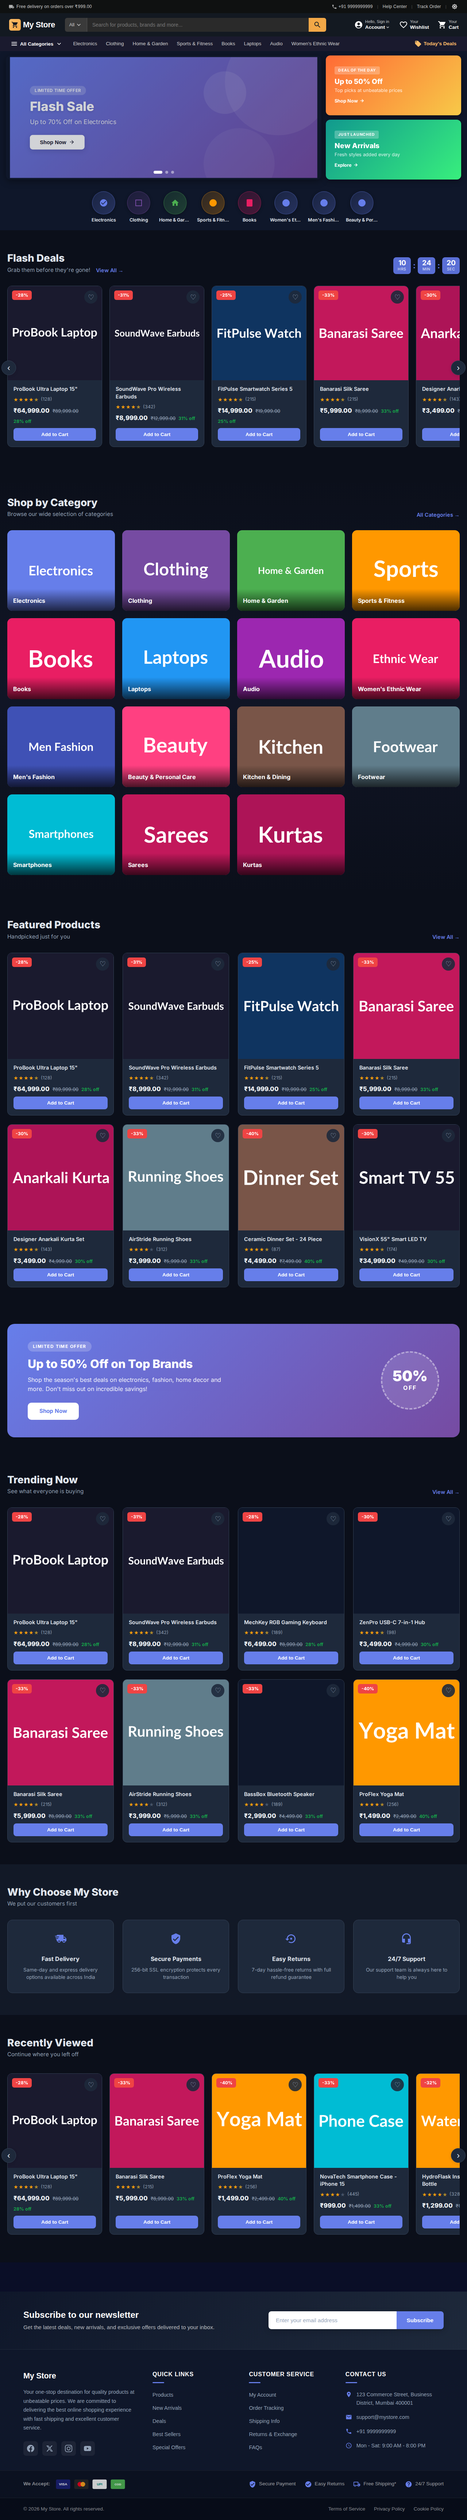
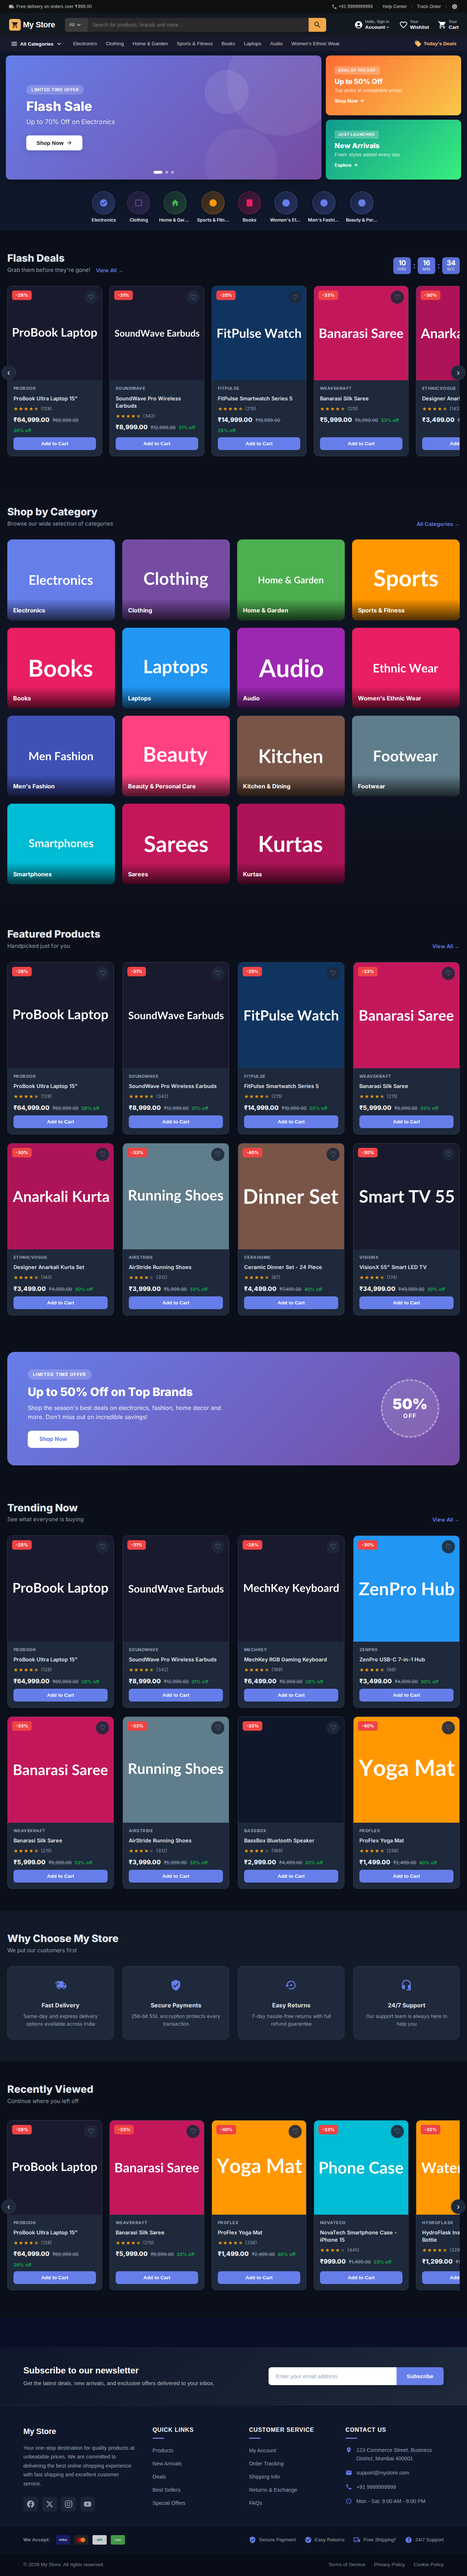
Home product cards: show brand (matches checklist + FeaturedProducts)
Home's inline product card omitted the brand line that the spec lists and
that the sibling FeaturedProducts card already renders. Add a muted uppercase
brand above the name (light/dark) and refresh the screenshots.

diff --git a/src/pages/Home/Home.js b/src/pages/Home/Home.js
@@ -135,6 +135,9 @@ const ProductCard = ({ product, onAddToCart, onToggleWishlist, isWishlisted }) =
 
       {/* Info */}
       <div className={styles.productInfo}>
+        {product.brand && (
+          <p className={styles.productBrand}>{product.brand}</p>
+        )}
         <h3 className={styles.productName}>{truncateText(name, 48)}</h3>
 
         <StarRating

diff --git a/src/pages/Home/Home.module.css b/src/pages/Home/Home.module.css
@@ -356,6 +356,19 @@
   flex: 1;
 }
 
+.productBrand {
+  font-size: 0.72rem;
+  font-weight: 700;
+  text-transform: uppercase;
+  letter-spacing: 0.04em;
+  color: #64748b;
+  margin: 0;
+}
+
+.dark .productBrand {
+  color: #94a3b8;
+}
+
 .productName {
   font-size: 0.9rem;
   font-weight: 600;
